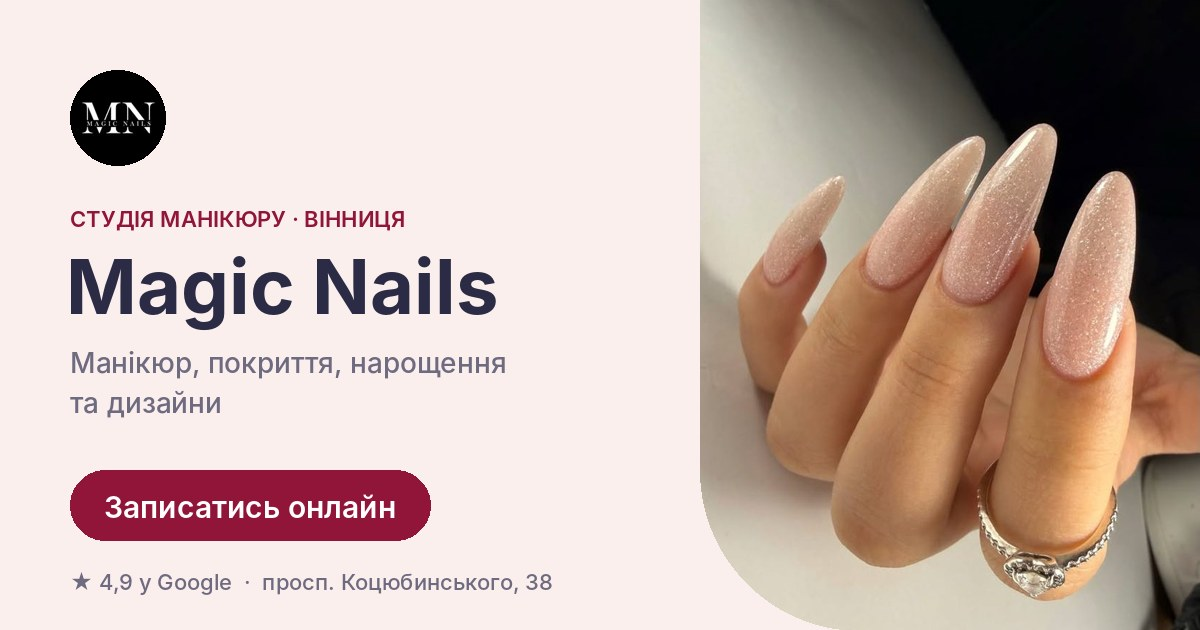
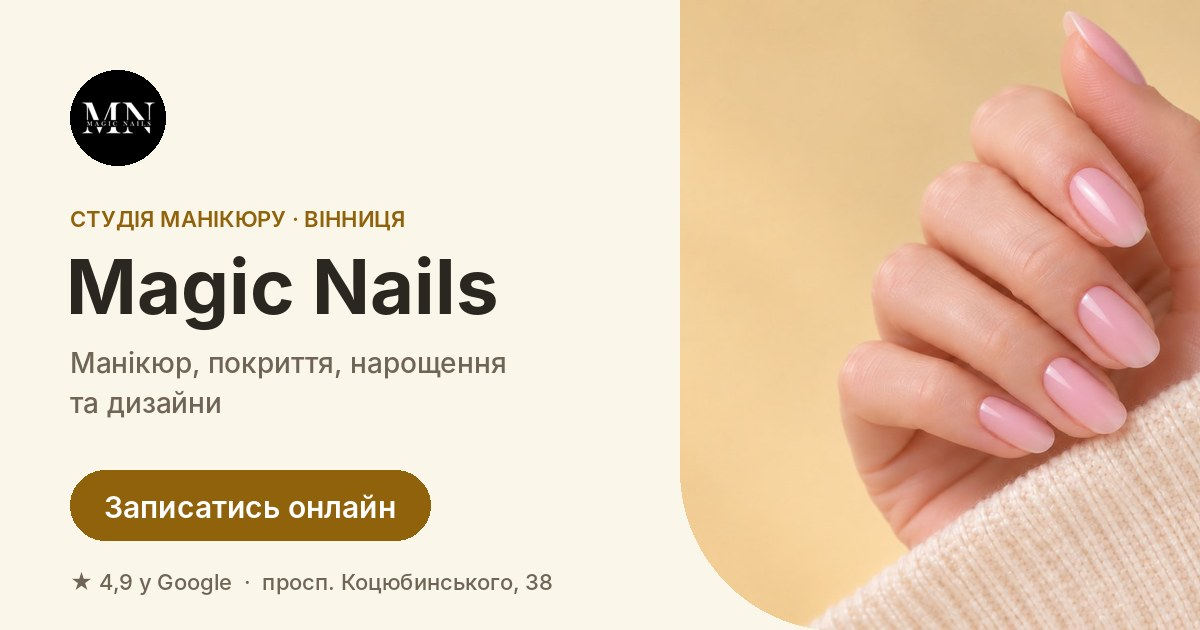
Жовто-теплі тони замість рожевих, нове фото на головному екрані, нове превʼю
Claude-Session: https://claude.ai/code/session_0139noUdAWvL6oxfQhddBcsh

diff --git a/index.html b/index.html
@@ -17,7 +17,7 @@
 <meta property="og:image:height" content="630">
 <meta property="og:image:alt" content="Magic Nails — студія манікюру у Вінниці">
 <meta name="twitter:card" content="summary_large_image">
-<meta name="theme-color" content="#FAEFED">
+<meta name="theme-color" content="#FBF6EA">
 <link rel="icon" href="images/logo.png">
 <script>document.documentElement.className+=" js"</script>
 <link rel="preconnect" href="https://fonts.googleapis.com">
@@ -25,13 +25,13 @@
 <style>
   *{box-sizing:border-box;margin:0;padding:0}
   :root{
-    --bg:#FAEFED;
-    --powder:#EFCEC9;
-    --cherry:#911439;
-    --cherry-dark:#760f2e;
-    --text:#2B2B45;
-    --muted:#6e6a80;
-    --dark:#38334F;
+    --bg:#FBF6EA;
+    --powder:#F2E2B3;
+    --cherry:#8F620B;
+    --cherry-dark:#6F4B06;
+    --text:#2A2620;
+    --muted:#6E6556;
+    --dark:#2E2A24;
     --white:#ffffff;
   }
   body{background:var(--bg);color:var(--text);font-family:Montserrat,-apple-system,"Segoe UI",Roboto,Arial,sans-serif;font-size:15px;line-height:1.6;-webkit-font-smoothing:antialiased}
@@ -49,7 +49,7 @@
   .btn-line:hover{background:var(--cherry);color:#fff}
 
   /* header */
-  header{position:sticky;top:0;z-index:20;background:rgba(250,239,237,.95);backdrop-filter:blur(8px);-webkit-backdrop-filter:blur(8px)}
+  header{position:sticky;top:0;z-index:20;background:rgba(251,246,234,.95);backdrop-filter:blur(8px);-webkit-backdrop-filter:blur(8px)}
   header .wrap{display:flex;align-items:center;justify-content:space-between;height:64px}
   .brand{display:flex;align-items:center;gap:10px;font-weight:700;letter-spacing:.06em;text-transform:uppercase;font-size:14px}
   .brand img{width:38px;height:38px;border-radius:50%}
@@ -61,7 +61,7 @@
   .brand{transition:opacity .2s} .brand:active{opacity:.7}
   .head-btn{height:40px;padding:0 18px;font-size:13px;display:none}
   header{transition:box-shadow .3s}
-  header.scrolled{box-shadow:0 6px 20px rgba(43,43,69,.08)}
+  header.scrolled{box-shadow:0 6px 20px rgba(42,38,32,.08)}
   .brand-txt small{display:block;font-size:11px;font-weight:500;letter-spacing:.02em;text-transform:none;color:var(--muted);margin-top:1px}
   .m-actions{display:flex;align-items:center;gap:8px}
   .icon-btn{width:42px;height:42px;border-radius:50%;border:0;display:grid;place-items:center;cursor:pointer;transition:background .25s,transform .15s}
@@ -144,7 +144,7 @@
   .prices{background:var(--powder);border-radius:40px}
   .price-card{background:var(--white);border-radius:24px;padding:22px 20px;margin-top:16px}
   .price-card h3{font-size:18px;font-weight:700;margin-bottom:6px}
-  .row{display:flex;justify-content:space-between;align-items:baseline;gap:14px;padding:12px 0;border-bottom:1px dashed #e4d6d3}
+  .row{display:flex;justify-content:space-between;align-items:baseline;gap:14px;padding:12px 0;border-bottom:1px dashed #EADFC6}
   .row:last-child{border-bottom:0;padding-bottom:0}
   .row small{display:block;color:var(--muted);font-size:12px}
   .row b{white-space:nowrap;color:var(--cherry);font-variant-numeric:tabular-nums}
@@ -190,7 +190,7 @@
   .contacts .btn-line{color:#fff;border-color:rgba(255,255,255,.5)}
   .contacts .btn-line:hover{background:#fff;color:var(--dark)}
   /* map */
-  .map{margin-top:36px;border-radius:24px;overflow:hidden;background:#2f2b45;position:relative;aspect-ratio:4/3}
+  .map{margin-top:36px;border-radius:24px;overflow:hidden;background:#24211C;position:relative;aspect-ratio:4/3}
   .map iframe{position:absolute;inset:0;width:100%;height:100%;border:0;filter:grayscale(.35) contrast(1.05)}
   .map-fallback{position:absolute;inset:0;display:grid;place-items:center;text-align:center;color:rgba(255,255,255,.6);font-size:14px;padding:20px}
 
@@ -223,7 +223,7 @@
 
   .sticky{position:fixed;left:16px;right:16px;bottom:calc(14px + env(safe-area-inset-bottom));z-index:30;transform:translateY(160%);transition:transform .25s}
   .sticky.show{transform:none}
-  .sticky .btn{width:100%;box-shadow:0 10px 30px rgba(145,20,57,.35)}
+  .sticky .btn{width:100%;box-shadow:0 10px 30px rgba(143,98,11,.35)}
 
 
   /* ===== polish ===== */
@@ -236,32 +236,32 @@
   h3{letter-spacing:-.01em}
   .label::before{content:"";display:inline-block;width:18px;height:2px;border-radius:2px;background:currentColor;vertical-align:middle;margin:-2px 8px 0 0}
 
-  .btn{box-shadow:0 6px 18px rgba(145,20,57,.22);transition:background .25s,color .25s,transform .2s ease,box-shadow .25s}
+  .btn{box-shadow:0 6px 18px rgba(143,98,11,.22);transition:background .25s,color .25s,transform .2s ease,box-shadow .25s}
   .btn{white-space:nowrap}
   .btn-line{box-shadow:none}
   @media (hover:hover){
-    .btn:hover{transform:translateY(-2px);box-shadow:0 10px 24px rgba(145,20,57,.28)}
-    .btn-line:hover{box-shadow:0 8px 20px rgba(145,20,57,.2)}
-    .svc:hover{transform:translateY(-4px);box-shadow:0 14px 30px rgba(43,43,69,.08)}
+    .btn:hover{transform:translateY(-2px);box-shadow:0 10px 24px rgba(143,98,11,.28)}
+    .btn-line:hover{box-shadow:0 8px 20px rgba(143,98,11,.2)}
+    .svc:hover{transform:translateY(-4px);box-shadow:0 14px 30px rgba(42,38,32,.08)}
     .work:hover img,.svc:hover .svc-img img{transform:scale(1.05)}
-    .master:hover{transform:translateY(-4px);box-shadow:0 16px 34px rgba(43,43,69,.1)}
+    .master:hover{transform:translateY(-4px);box-shadow:0 16px 34px rgba(42,38,32,.1)}
   }
   .btn:active{transform:scale(.97)}
 
   /* hero: фото на всю ширину, шапка поверх фото */
   header{background:transparent;backdrop-filter:none;-webkit-backdrop-filter:none;transition:background .3s,box-shadow .3s}
-  header.scrolled{background:rgba(250,239,237,.95);backdrop-filter:blur(8px);-webkit-backdrop-filter:blur(8px)}
+  header.scrolled{background:rgba(251,246,234,.95);backdrop-filter:blur(8px);-webkit-backdrop-filter:blur(8px)}
   .menu-open header.scrolled{background:transparent;backdrop-filter:none;-webkit-backdrop-filter:none;box-shadow:none}
   .hero{position:relative;margin-top:-64px;padding:0 0 48px;overflow:hidden}
   .hero{--hh:410px;--hh:clamp(270px,45svh,410px)}
   .hero-bg{position:absolute;left:0;right:0;top:0;height:var(--hh);background:var(--bg)}
   .hero-bg img{width:100%;height:100%;object-fit:cover;object-position:80% 50%}
-  .hero-bg::after{content:"";position:absolute;inset:0;background:linear-gradient(180deg,rgba(250,239,237,.6) 0,rgba(250,239,237,0) 20%,rgba(250,239,237,0) 55%,rgba(250,239,237,.75) 82%,var(--bg) 98%)}
+  .hero-bg::after{content:"";position:absolute;inset:0;background:linear-gradient(180deg,rgba(251,246,234,.6) 0,rgba(251,246,234,0) 20%,rgba(251,246,234,0) 55%,rgba(251,246,234,.75) 82%,var(--bg) 98%)}
   .hero .wrap{position:relative;padding-top:calc(var(--hh) - 18px)}
   .hero-pills{display:flex;flex-wrap:wrap;gap:8px}
-  .pill{display:inline-flex;align-items:center;gap:5px;background:var(--white);border-radius:20px;padding:6px 12px;font-size:13px;color:var(--text);box-shadow:0 2px 10px rgba(43,43,69,.06)}
+  .pill{display:inline-flex;align-items:center;gap:5px;background:var(--white);border-radius:20px;padding:6px 12px;font-size:13px;color:var(--text);box-shadow:0 2px 10px rgba(42,38,32,.06)}
   .pill b{color:var(--cherry);font-weight:700}
-  .status-light{background:var(--white);color:var(--text);box-shadow:0 2px 10px rgba(43,43,69,.06)}
+  .status-light{background:var(--white);color:var(--text);box-shadow:0 2px 10px rgba(42,38,32,.06)}
 
   /* section rhythm */
   .services{padding-bottom:28px}
@@ -272,8 +272,8 @@
   footer{padding-bottom:40px}
 
   .svc,.master{transition:transform .3s ease,box-shadow .3s ease}
-  .price-card{box-shadow:0 10px 30px rgba(145,20,57,.06)}
-  .master{box-shadow:0 6px 20px rgba(43,43,69,.05)}
+  .price-card{box-shadow:0 10px 30px rgba(143,98,11,.06)}
+  .master{box-shadow:0 6px 20px rgba(42,38,32,.05)}
 
   /* works */
   .work{flex:none;width:70%;aspect-ratio:3/4;border-radius:20px;overflow:hidden;scroll-snap-align:center;border:0;padding:0;background:var(--powder);cursor:zoom-in;display:block}
@@ -283,11 +283,11 @@
   .masters-grid{display:flex;gap:12px;overflow-x:auto;scroll-snap-type:x mandatory;margin:28px -20px 0;padding:0 20px 14px;scrollbar-width:none}
   .masters-grid::-webkit-scrollbar{display:none}
   .master{flex:none;width:46%;scroll-snap-align:start;scroll-margin-left:20px}
-  .ph{background:linear-gradient(150deg,#f3d9d5 0%,#e6b9b2 100%)}
+  .ph{background:linear-gradient(150deg,#F6E9C4 0%,#E5C77F 100%)}
   .ph span{font-size:56px;font-weight:600;color:#fff;line-height:1;letter-spacing:0}
 
   /* lightbox */
-  .lb{position:fixed;inset:0;z-index:60;background:rgba(27,25,40,.93);display:grid;place-items:center;opacity:0;visibility:hidden;transition:opacity .25s,visibility .25s}
+  .lb{position:fixed;inset:0;z-index:60;background:rgba(26,23,19,.94);display:grid;place-items:center;opacity:0;visibility:hidden;transition:opacity .25s,visibility .25s}
   .lb.open{opacity:1;visibility:visible}
   .lb img{max-width:calc(100vw - 24px);max-height:calc(100vh - 120px);max-height:calc(100dvh - 120px);border-radius:16px;object-fit:contain;transform:scale(.96);transition:transform .25s}
   .lb.open img{transform:none}
@@ -342,7 +342,7 @@
     .hero{min-height:calc(90vh + 56px);min-height:calc(90svh + 56px);display:flex;align-items:center;padding:120px 0 150px}
     .hero-bg{height:auto;bottom:0;background:var(--powder)}
     .hero-bg img{object-position:100% 35%}
-    .hero-bg::after{background:linear-gradient(90deg,rgba(250,239,237,.92) 0,rgba(250,239,237,.62) 36%,rgba(250,239,237,0) 66%),linear-gradient(180deg,rgba(250,239,237,.55) 0,rgba(250,239,237,0) 20%)}
+    .hero-bg::after{background:linear-gradient(90deg,rgba(251,246,234,.92) 0,rgba(251,246,234,.62) 36%,rgba(251,246,234,0) 66%),linear-gradient(180deg,rgba(251,246,234,.55) 0,rgba(251,246,234,0) 20%)}
     .hero .wrap{padding-top:0;width:100%}
     .hero-text{max-width:540px}
     .services{margin-top:-56px;position:relative}
@@ -351,7 +351,7 @@
   @media (min-width:860px) and (max-width:1120px){
     .hero-text{max-width:400px}
     .hero h1{font-size:44px}
-    .hero-bg::after{background:linear-gradient(90deg,rgba(250,239,237,.96) 0,rgba(250,239,237,.8) 40%,rgba(250,239,237,0) 76%),linear-gradient(180deg,rgba(250,239,237,.55) 0,rgba(250,239,237,0) 20%)}
+    .hero-bg::after{background:linear-gradient(90deg,rgba(251,246,234,.96) 0,rgba(251,246,234,.8) 40%,rgba(251,246,234,0) 76%),linear-gradient(180deg,rgba(251,246,234,.55) 0,rgba(251,246,234,0) 20%)}
   }
   @media (min-width:860px){
     .services{padding-bottom:44px}
